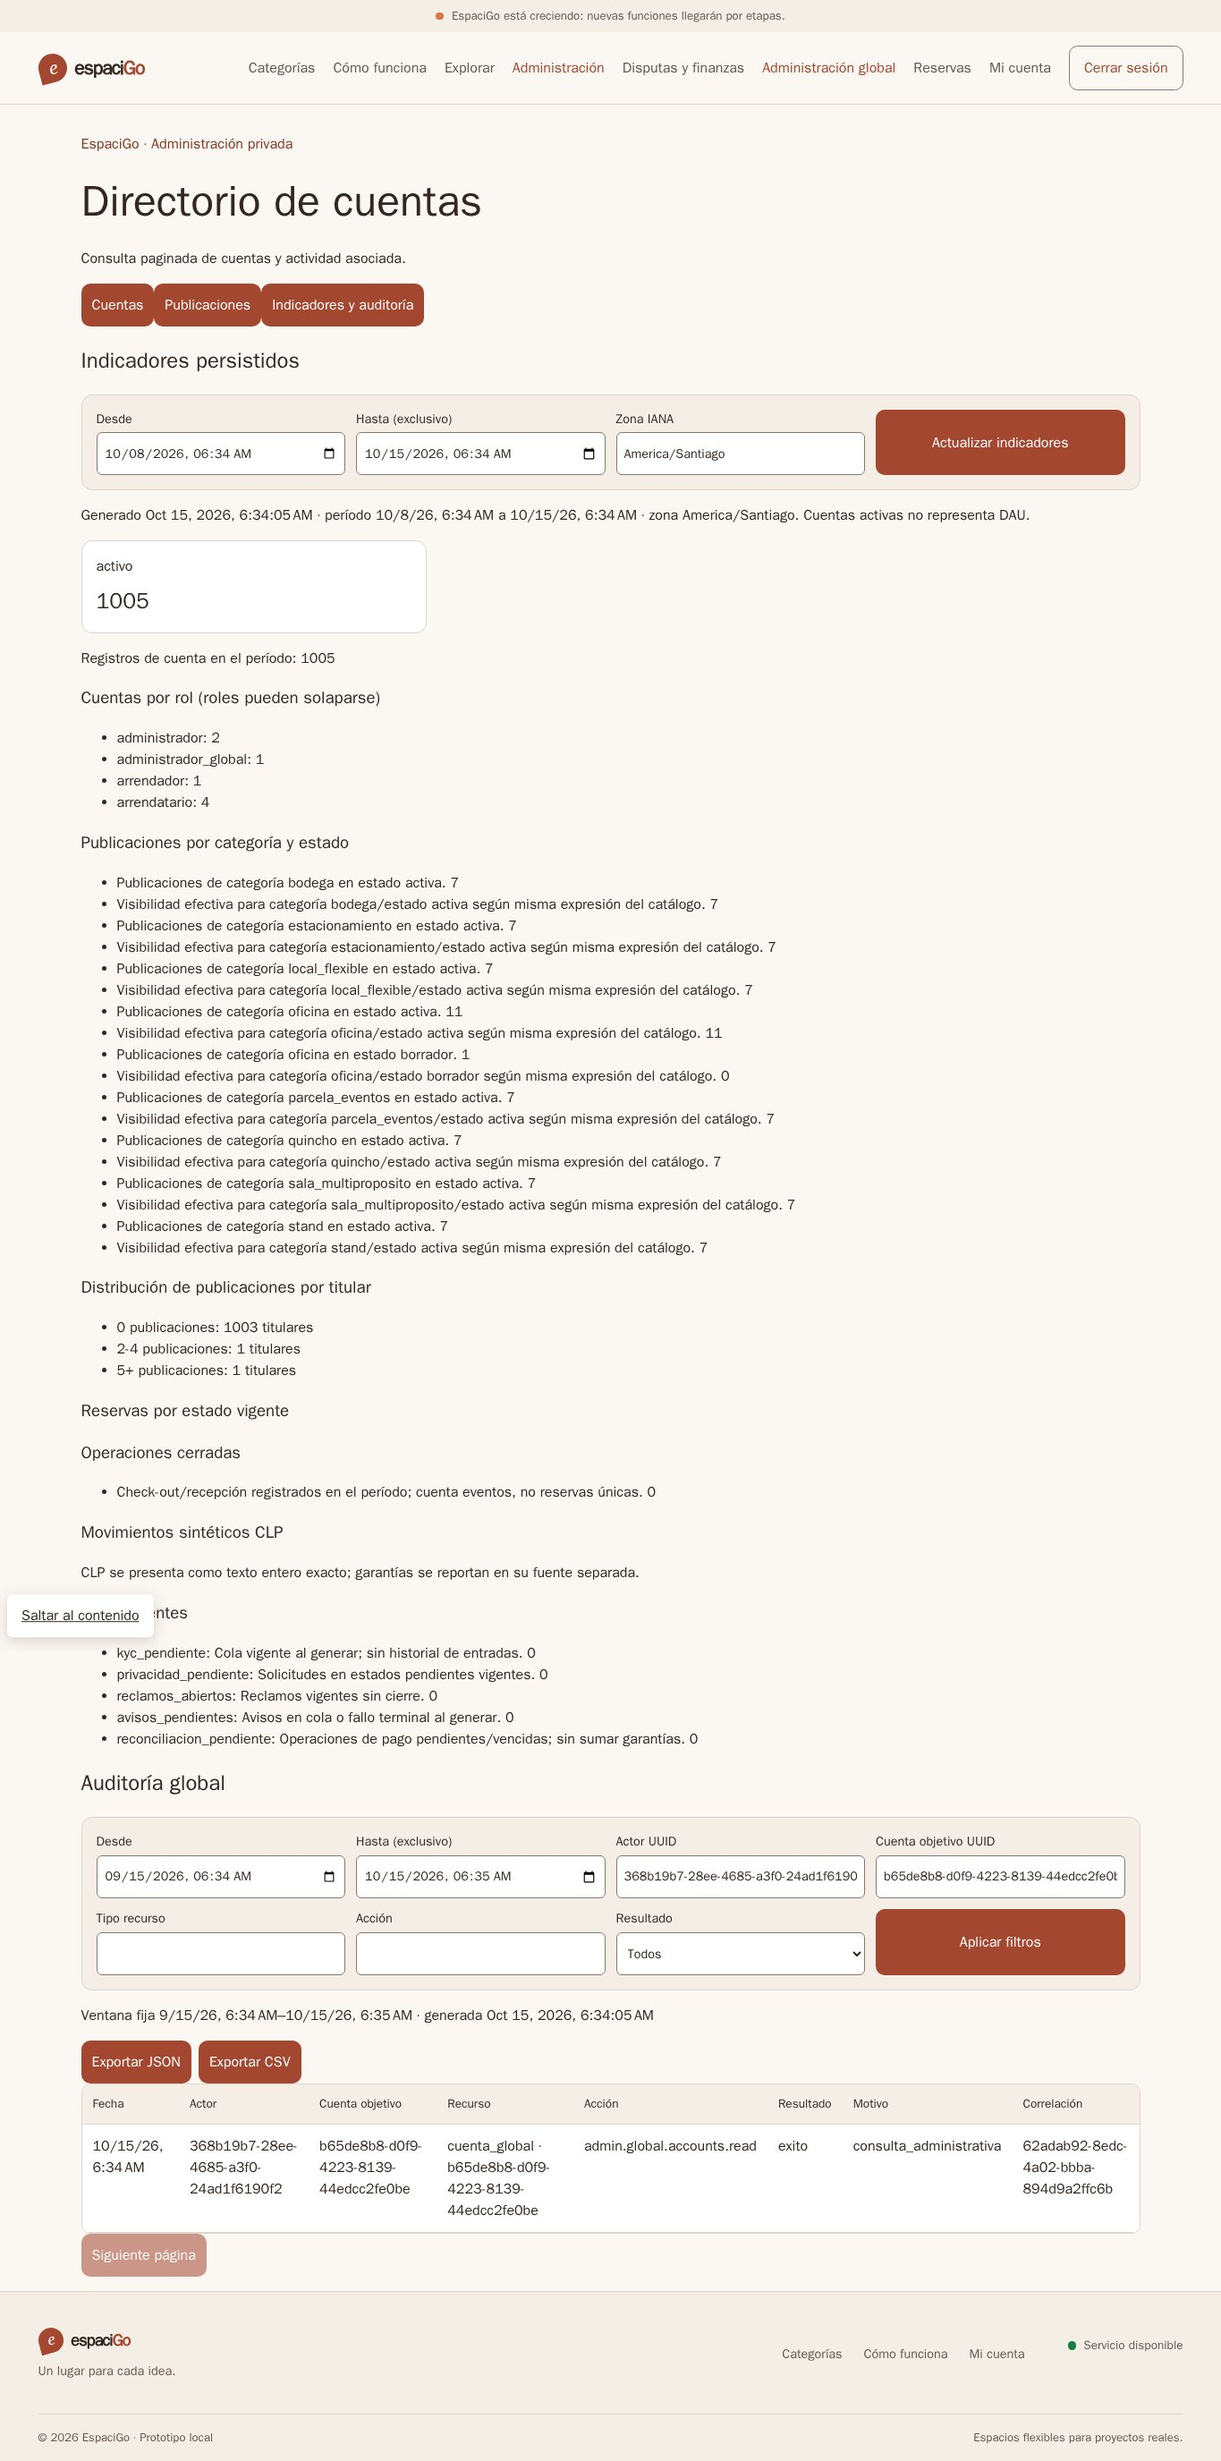
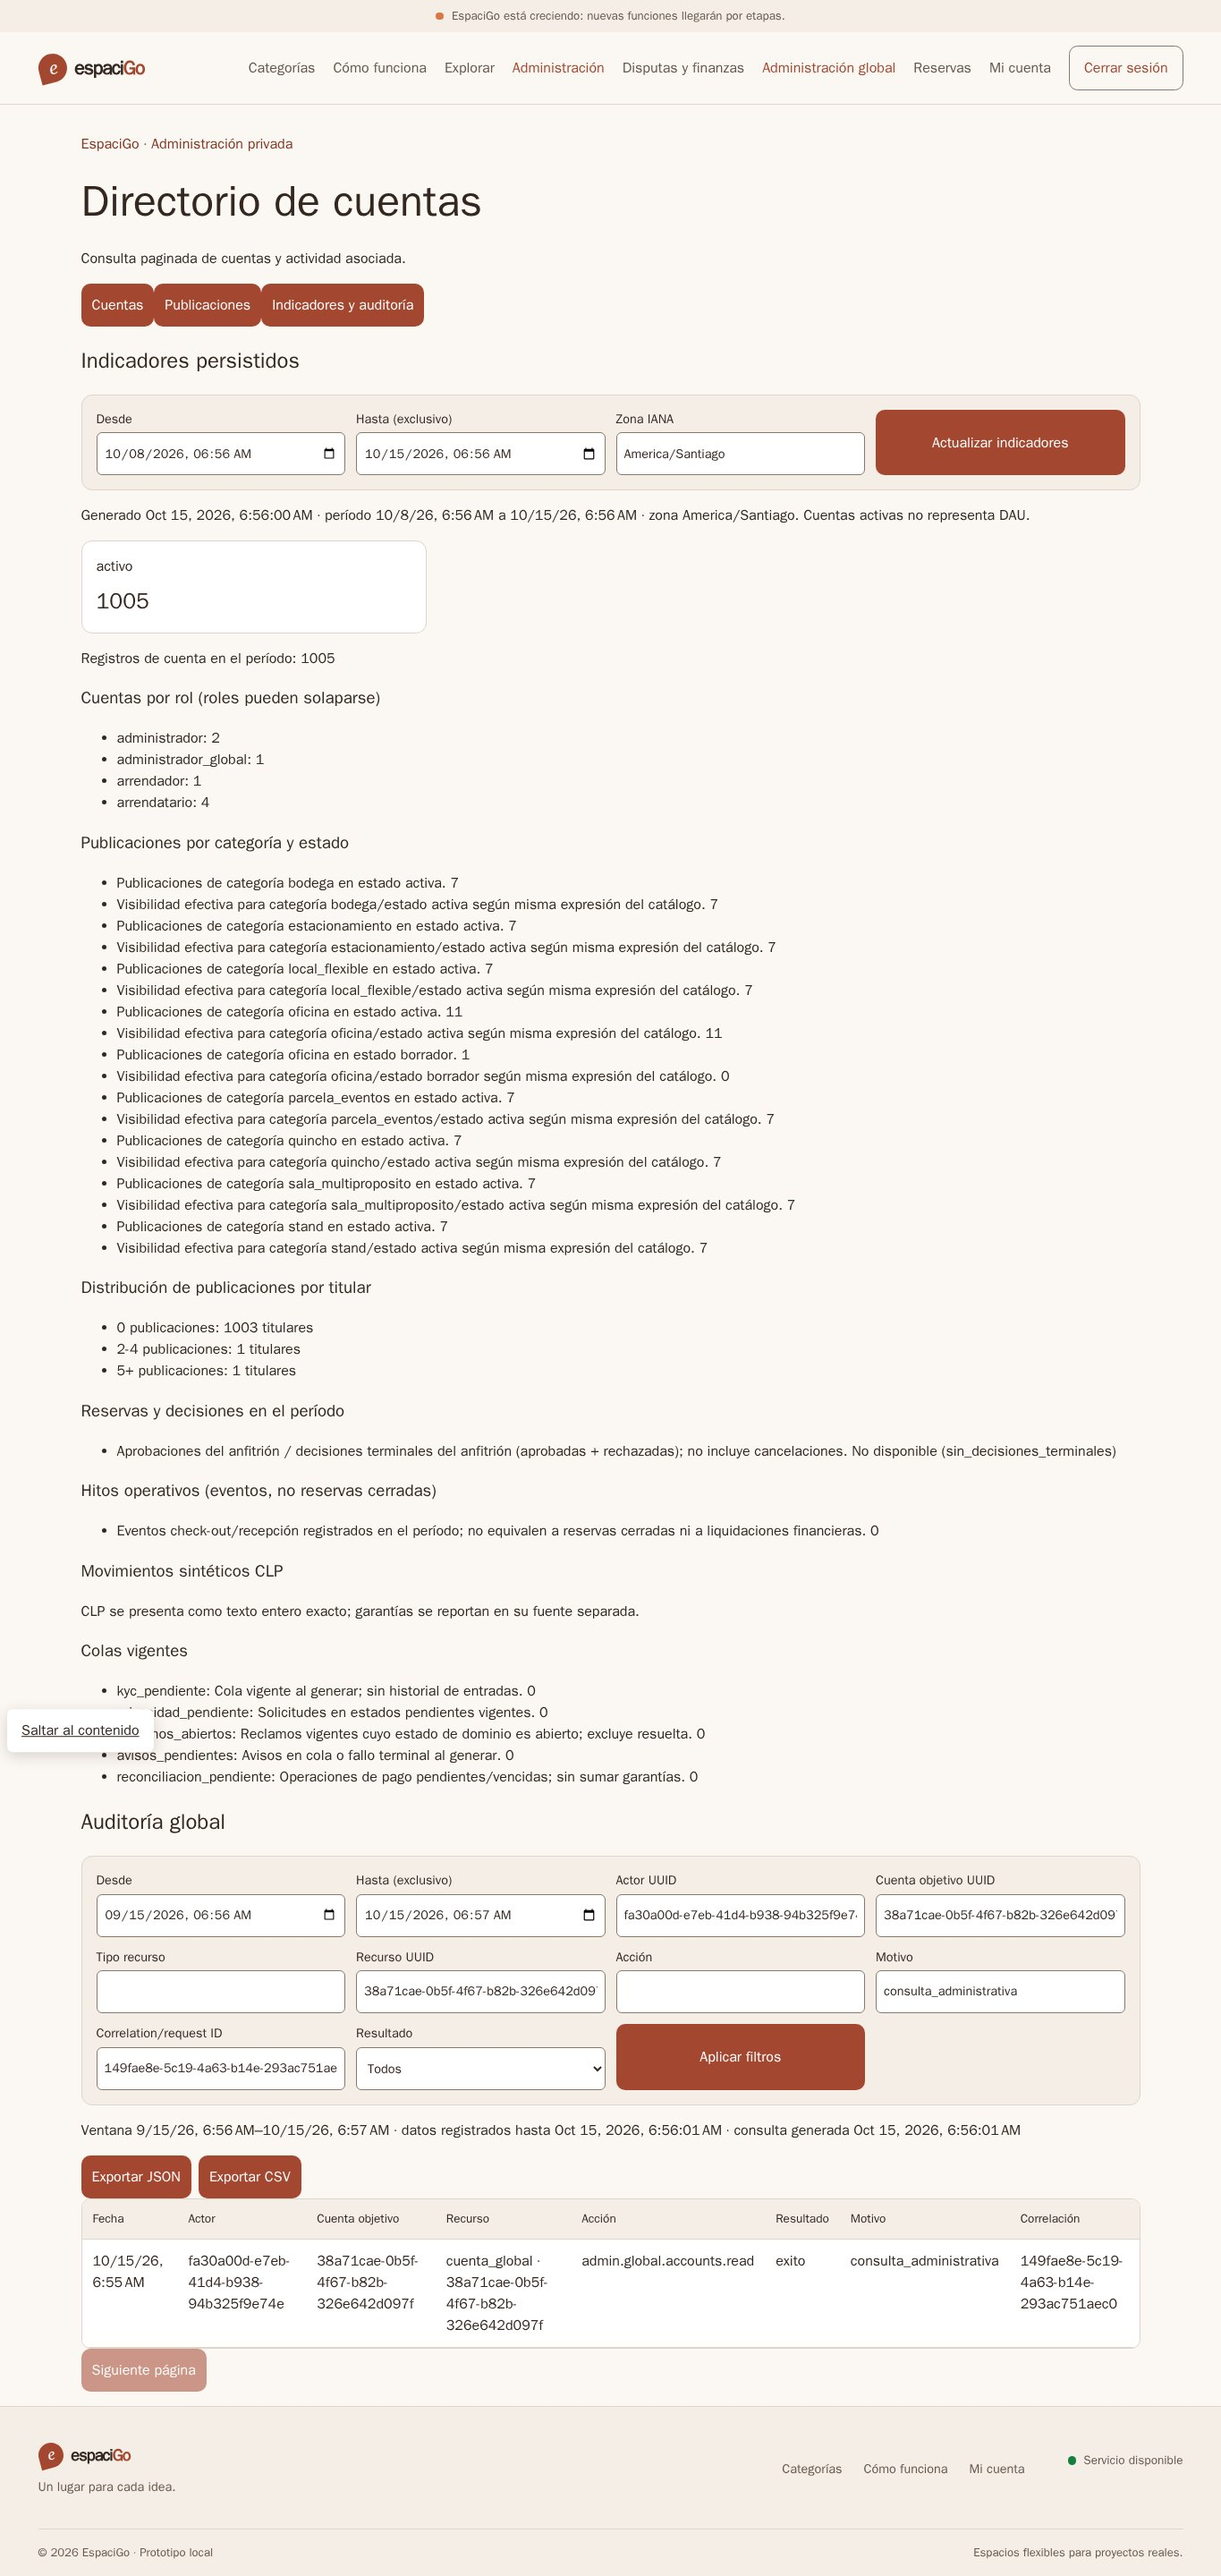
docs(marketplace): refresh GADM-03 review evidence

diff --git a/planning/administracion_global/matriz_capacidades_pruebas_cortes.md b/planning/administracion_global/matriz_capacidades_pruebas_cortes.md
@@ -25,15 +25,15 @@ Por instrucción explícita de este chat, GADM-03 está en desarrollo desde `ori
 
 ## Evidencia GADM-03 (2026-10-15)
 
-Código probado: `1518737a5b14056074380790173548f3e6dd860a` (rama `codex/marketplace/feature/gadm-03-kpi-account-audit`), partiendo de `6a721adc96ac5192e6bfcf8b672d052e272ed048`. La migración V59 añade columnas para objetivo e instante de registro e índices de auditoría; V1–V58 quedan intactas. El recorrido usa Compose FE-14 con proyecto, volumen y cuentas sintéticas efímeros; no referencia `espacigo_pgdata`; elimina la base/credenciales al salir.
+Código probado: `0572b70d02c2f8c88d06e073942ec10f4cd20b70` (rama `codex/marketplace/feature/gadm-03-kpi-account-audit`), partiendo de `6a721adc96ac5192e6bfcf8b672d052e272ed048`. La migración V59 añade columnas para objetivo e instante de registro e índices de auditoría; V1–V58 quedan intactas. El recorrido usa Compose FE-14 con proyecto, volumen y cuentas sintéticas efímeros; no referencia `espacigo_pgdata`; elimina la base/credenciales al salir.
 
 | Validación | Entorno / alcance | Resultado |
 | --- | --- | --- |
-| Go / dominio | `go test ./internal/adminglobal/... ./internal/adapters/postgres/booking ./internal/adapters/postgres/gallery ./internal/adapters/postgres/spaces ./internal/identity/... ./internal/migrator` | Correcto. El runner FE-14 ejecuta además la integración del migrador contra PostgreSQL 18 para base vacía y upgrades desde V56 y V58, comprobando checksums previos. |
-| Contrato y Angular | `npm run api:check`, `npm run lint`, `npm test -- --watch=false`, `npm run build` | Correcto: OpenAPI/SDK generado; 39 archivos y 302 pruebas Angular; lint, SCSS, arquitectura y build SSR/navegador. |
-| Recorrido conectado FE-14 | Playwright Chromium contra Angular y API Go, PostgreSQL/PostGIS de Compose aislado | Login global, panel KPI desde DB, filtros de actor y cuenta objetivo por separado, consulta auditada, exportación CSV auditada/descargada; rol administrador no global recibe 403 en KPI, consulta y exportación. Persistencia verificada directamente en DB; sin credenciales en logs. |
-| Rendimiento de directorio | Misma DB desechable; se insertan 1.000 cuentas sintéticas con correo único y no autenticable; consulta por prefijo y página de 25 con `EXPLAIN (ANALYZE, BUFFERS, FORMAT JSON)` | Plan capturado en `evidencia/gadm_03/gadm03-account-query-plan.txt`: 1,155 ms de tiempo total medido, 1.043 bloques compartidos en caché, sin lecturas físicas ni temporales. Dato indicativo del contenedor de ensayo, no SLO de producción. |
-| Capturas / medidas | `evidencia/gadm_03/fe14_gadm_03_admin_{mobile,desktop}.{jpg,json}` | Móvil 390×844, documento 390 px; escritorio 1365×900, documento 1365 px; no hay desbordamiento horizontal. Las capturas no contienen correo/credencial de ensayo. |
+| Go / dominio | `go test ./internal/adminglobal/... ./internal/identity/...`; runner FE-14 con PostgreSQL 18 | Unitarias pasan. Integración obligatoria `TestGlobalBootstrapDirectoryAndLastMasterConcurrency` pasa sin `TEST_DATABASE_URL` omitido; incluye 404/auditoría de destino ausente, paginación con empates y filtros, export JSON/CSV con corte, conciliación KPI SQL con decisiones aprobadas/rechazadas, reclamo abierto/resuelto y CLP exacto. Migrador pasa desde base vacía, V56 y V58 con checksums previos. |
+| Contrato y Angular | `npm run api:check`, `npm run lint`, `npm test -- --watch=false` | OpenAPI/SDK y TypeScript pasan; lint/SCSS/arquitectura pasan; 39 archivos y 303 pruebas Angular. |
+| Recorrido conectado FE-14 | Playwright Chromium contra Angular y API Go, PostgreSQL/PostGIS de Compose aislado | 1/1 recorrido conectado pasa: panel KPI contra DB, filtros de actor/destino/recurso/motivo/correlación, paginación keyset sin repetición y snapshot fijo, evento tardío excluido de JSON/CSV, ambos formatos exportados con el mismo corte, lookup de destino inexistente 404 con rechazo auditado, descarga CSV real y rol no global rechazado. Logs sin correos ni contraseñas. |
+| Rendimiento de directorio | Misma DB desechable; 1.000 cuentas sintéticas no autenticables; consulta por prefijo y página de 25 con `EXPLAIN (ANALYZE, BUFFERS, FORMAT JSON)` | Plan en `evidencia/gadm_03/gadm03-account-query-plan.txt`: 1,194 ms; 1.043 bloques compartidos en caché, 0 físicos y 0 temporales en la raíz. Medida del contenedor de ensayo, no SLO de producción. |
+| Capturas / medidas | `evidencia/gadm_03/fe14_gadm_03_admin_{mobile,desktop}.{jpg,json}` | Móvil 390×844, documento 390×5125; escritorio 1365×900, documento 1365×2879; sin desbordamiento horizontal. Sidecars registran HEAD `0572b70d02c2f8c88d06e073942ec10f4cd20b70`; capturas sin credenciales de ensayo. |
 | Límites | Contratos OpenAPI, datos de producto | Cobros/devoluciones y comisión son datos de ensayo; disponibilidad o cola no se transforma en cero cuando la fuente no existe. No se presentan DAU/visitas, pagos reales, aceptación de producto ni capacidad GCP. |
 
 La matriz registra verificaciones técnicas, no aceptación de producto. GADM-04 sigue en espera de la fusión de GADM-03 y una instrucción sucesora.
